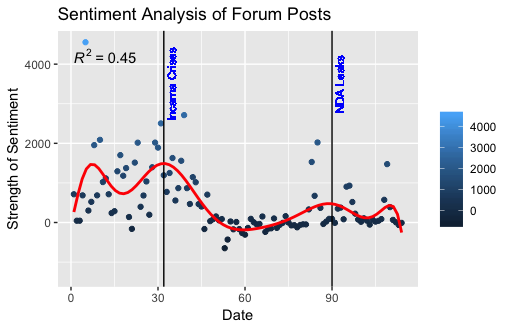
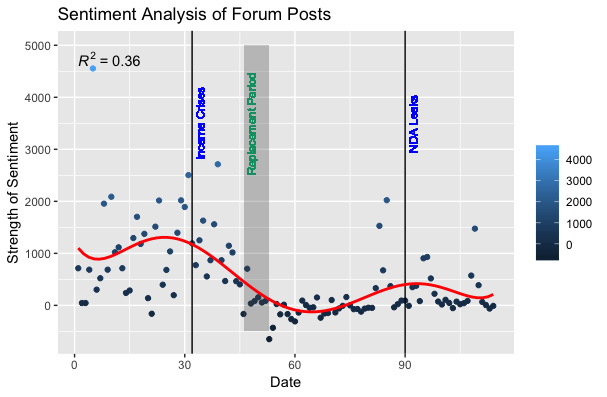
added replacement period

diff --git a/Forum Post Code/readme.md b/Forum Post Code/readme.md
@@ -48,3 +48,4 @@ Topic Models and Sentimental Analysis
 ### Bugs
 - [X] Fine tune the topics 
 - [X] Sentiment.R has issues with reading some files 
+- [ ] Translate replacement date into a variable 
